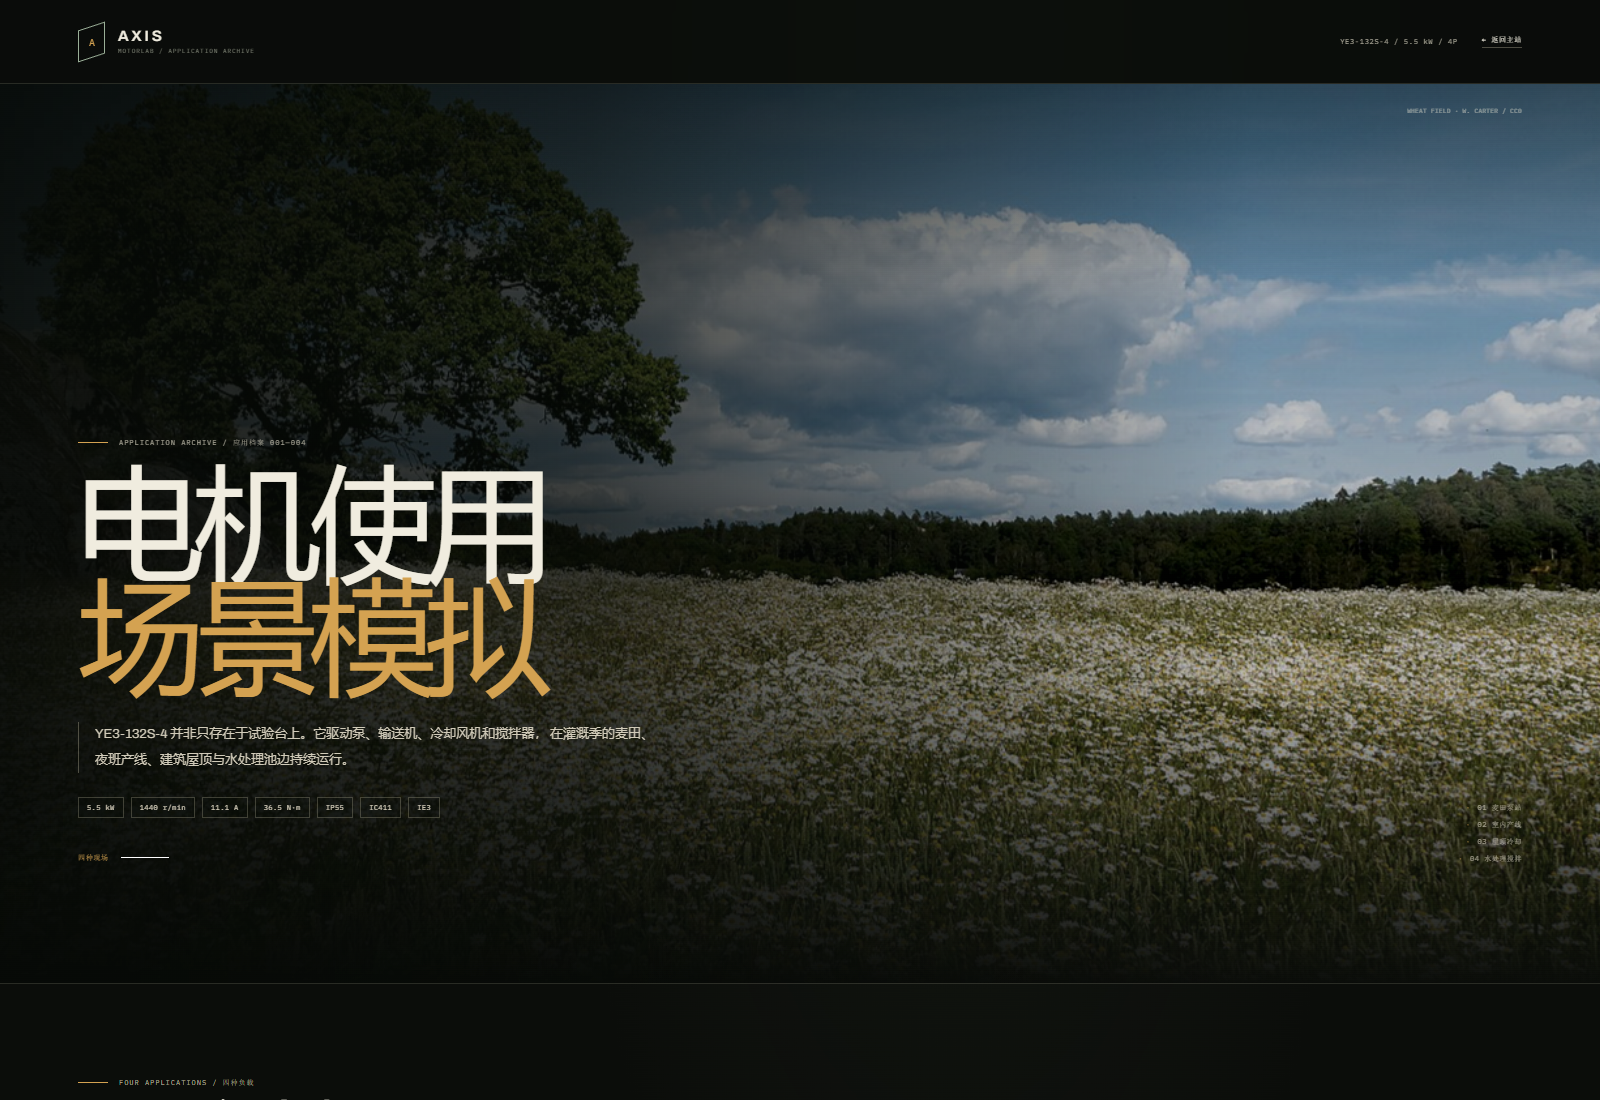
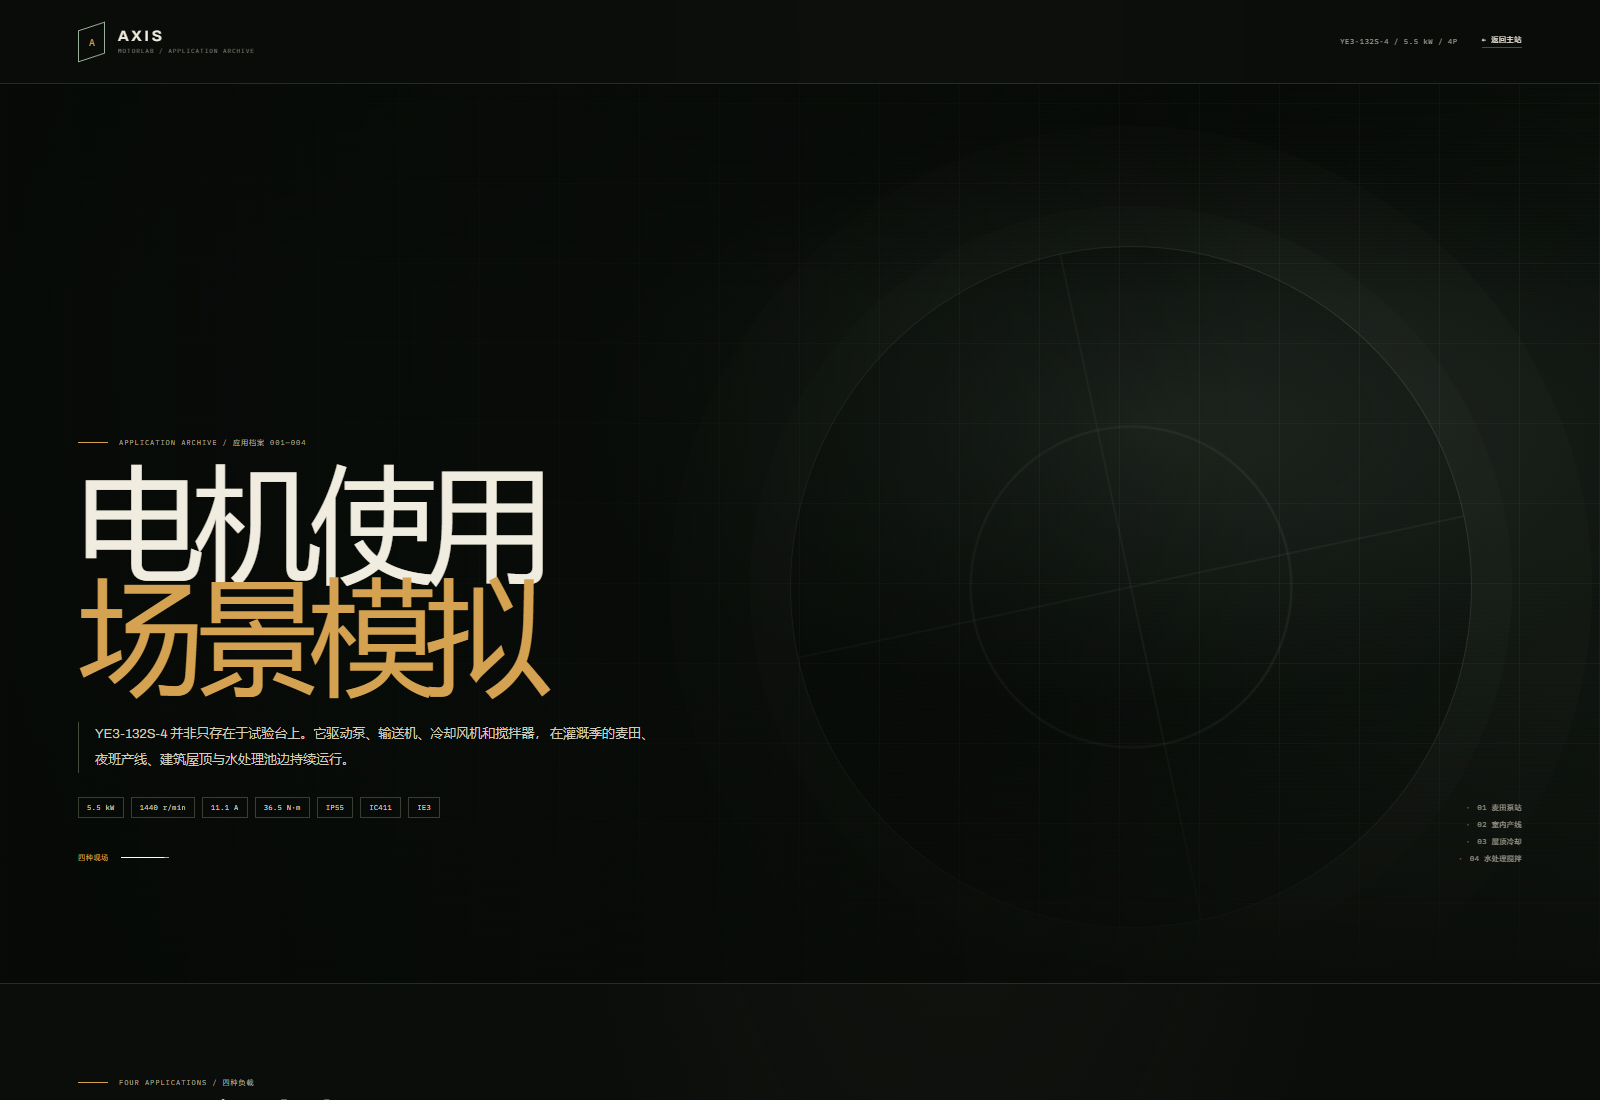
Remove reference photos and add mechanical basis to 3D applications

diff --git a/scenarios/index.html b/scenarios/index.html
@@ -22,9 +22,7 @@
 
   <main>
     <section class="hero">
-      <div class="hero-image">
-        <img src="/media/applications/wheat.jpg" alt="麦田与树木" />
-      </div>
+      <div class="hero-blueprint" aria-hidden="true"></div>
       <div class="hero-shade"></div>
       <div class="hero-inner">
         <div class="eyebrow"><span></span> APPLICATION ARCHIVE / 应用档案 001—004</div>
@@ -44,7 +42,6 @@
         <span>03 屋顶冷却</span>
         <span>04 水处理搅拌</span>
       </div>
-      <div class="hero-credit">WHEAT FIELD · W. CARTER / CC0</div>
     </section>
 
     <section class="applications" id="applications">
@@ -53,7 +50,7 @@
           <div class="eyebrow"><span></span> FOUR APPLICATIONS / 四种负载</div>
           <h2>同一台电机，<br>四种工作现场。</h2>
         </div>
-        <p>现场照片用于识别设备结构；前景设备由数字模型重建，四组场景同时运行。</p>
+        <p>参考照片只用于研究设备结构，不在网站中展示。四组场景均由数字模型、程序化材质和现场尺度重建。</p>
       </div>
 
       <div class="rated-strip">
@@ -64,10 +61,7 @@
       <div class="application-grid">
         <article class="application-card app-pump" data-app="pump">
           <div class="visual">
-            <div class="backdrop" style="background-image:url('/media/applications/pump.jpg')"></div>
             <canvas class="scene3d" data-scene="pump" aria-label="离心泵与电机数字模型"></canvas>
-            <img class="ref-thumb" src="/media/applications/pump.jpg" alt="参考照片：离心泵与电机泵组" />
-            <span class="ref-caption">REFERENCE / PUMP SET</span>
             <div class="grade"></div>
             <div class="visual-top"><span>01 / FLUID TRANSFER</span><span class="live"><i></i>RUNNING</span></div>
             <div class="hotspot" style="left:32%;top:57%"><span>MOTOR</span></div>
@@ -87,15 +81,14 @@
               <div><span>CURRENT</span><b data-live="pump-current">11.2</b><em>A</em></div>
             </div>
             <div class="tags"><span>离心泵</span><span>联轴器</span><span>灌溉管网</span></div>
+            <div class="mech-note"><span>LOAD PATH</span>电机转矩 → 联轴器 → 泵轴；泵组重量 → 公共底座 → 混凝土基础</div>
+            <div class="mech-note"><span>MOUNTING</span>IEC 132S · 轴高 132 mm · 轴伸 Ø38 mm · 联轴器护罩 · 地脚 M12</div>
           </div>
         </article>
 
         <article class="application-card app-conveyor" data-app="conveyor">
           <div class="visual">
-            <div class="backdrop" style="background-image:url('/media/applications/conveyor.jpg')"></div>
             <canvas class="scene3d" data-scene="conveyor" aria-label="输送机数字模型"></canvas>
-            <img class="ref-thumb" src="/media/applications/conveyor.jpg" alt="参考照片：工厂输送线" />
-            <span class="ref-caption">REFERENCE / CONVEYOR</span>
             <div class="grade"></div>
             <div class="visual-top"><span>02 / MATERIAL HANDLING</span><span class="live"><i></i>RUNNING</span></div>
             <div class="hotspot" style="left:24%;top:47%"><span>DRIVE</span></div>
@@ -114,15 +107,14 @@
               <div><span>CURRENT</span><b data-live="conveyor-current">11.0</b><em>A</em></div>
             </div>
             <div class="tags"><span>皮带输送</span><span>减速驱动</span><span>包装线</span></div>
+            <div class="mech-note"><span>LOAD PATH</span>电机转矩 → 减速机 → 驱动滚筒 → 输送带张力</div>
+            <div class="mech-note"><span>LAYOUT</span>带宽约 500 mm · 速度 1.2 m/s · 驱动侧护罩 · 急停拉绳 · 张紧行程</div>
           </div>
         </article>
 
         <article class="application-card app-cooling" data-app="cooling">
           <div class="visual monochrome">
-            <div class="backdrop" style="background-image:url('/media/applications/cooling.jpg')"></div>
             <canvas class="scene3d" data-scene="cooling" aria-label="冷却塔风机数字模型"></canvas>
-            <img class="ref-thumb" src="/media/applications/cooling.jpg" alt="参考照片：冷却塔风机" />
-            <span class="ref-caption">REFERENCE / FAN</span>
             <div class="grade"></div>
             <div class="visual-top"><span>03 / AIR MOVEMENT</span><span class="live"><i></i>RUNNING</span></div>
             <div class="hotspot" style="left:52%;top:55%"><span>AXIAL FAN</span></div>
@@ -141,15 +133,14 @@
               <div><span>CURRENT</span><b data-live="cooling-current">11.0</b><em>A</em></div>
             </div>
             <div class="tags"><span>轴流风机</span><span>冷却塔</span><span>排热</span></div>
+            <div class="mech-note"><span>LOAD PATH</span>电机转矩 → 直驱/皮带 → 风叶；轴向推力 → 轴承 → 塔体支架</div>
+            <div class="mech-note"><span>LAYOUT</span>风机直径约 1.2 m · 风量 20,000 m³/h · 风机护罩 · 检修开关 · 振动监测点</div>
           </div>
         </article>
 
         <article class="application-card app-water" data-app="water">
           <div class="visual">
-            <div class="backdrop" style="background-image:url('/media/applications/water.jpg')"></div>
             <canvas class="scene3d" data-scene="water" aria-label="水处理搅拌数字模型"></canvas>
-            <img class="ref-thumb" src="/media/applications/water.jpg" alt="参考照片：水处理厂沉淀池" />
-            <span class="ref-caption">REFERENCE / BASIN</span>
             <div class="grade"></div>
             <div class="visual-top"><span>04 / MIXING</span><span class="live"><i></i>RUNNING</span></div>
             <div class="hotspot" style="left:25%;top:70%"><span>MIXER / TANK</span></div>
@@ -164,10 +155,12 @@
             <p>电机经侧入式联轴器驱动搅拌叶轮。中心/侧入式驱动、桥架、刮臂、进出水管与检修栏杆共同构成处理池设备。</p>
             <div class="metrics">
               <div><span>MIXER</span><b data-live="water-rpm">148</b><em>rpm</em></div>
-              <div><span>VOLUME</span><b>12</b><em>m³</em></div>
+              <div><span>BASIN Ø</span><b>2.4</b><em>m</em></div>
               <div><span>CURRENT</span><b data-live="water-current">11.5</b><em>A</em></div>
             </div>
             <div class="tags"><span>侧入式搅拌</span><span>加药</span><span>水处理</span></div>
+            <div class="mech-note"><span>LOAD PATH</span>电机转矩 → 侧入轴 → 叶轮；径向载荷 → 轴承座 → 池壁/桥架</div>
+            <div class="mech-note"><span>LAYOUT</span>池径约 2.4 m · 叶轮转速 148 r/min · 机械密封 · 桥架/栏杆高度 1.1 m</div>
           </div>
         </article>
       </div>
@@ -183,18 +176,12 @@
         <div><b>02</b><h3>读负载特性</h3><p>泵与风机接近平方转矩，输送机与搅拌器接近恒转矩；启动方式、惯量和环境温度会改变实际负载率。</p></div>
         <div><b>03</b><h3>读环境边界</h3><p>户外潮湿、屋顶风雪、室内班次与水处理湿气，分别对应不同的防护、防腐和维护要求。</p></div>
       </div>
+      <p class="method-disclaimer">页面展示安装关系、载荷路径与运行状态，用于解释性模拟；未进行结构强度、基础振动、热平衡或选型计算。</p>
     </section>
 
     <section class="references">
-      <span>IMAGE CREDITS / 图片来源</span>
-      <div class="credit-list">
-        <a href="https://commons.wikimedia.org/wiki/File:Centrifugal_pumps.jpg" target="_blank" rel="noreferrer">泵组 · Bitjungle / CC BY-SA 4.0</a>
-        <a href="https://commons.wikimedia.org/wiki/File:Conveyor_system_in_a_factory.jpg" target="_blank" rel="noreferrer">输送线 · falco / CC0</a>
-        <a href="https://commons.wikimedia.org/wiki/File:Cooling_tower_fan.jpg" target="_blank" rel="noreferrer">冷却塔风机 · Steve Johnson / CC BY 2.0</a>
-        <a href="https://commons.wikimedia.org/wiki/File:Krishnapuram_water_treatment_plant_tank.jpg" target="_blank" rel="noreferrer">水处理池 · Saiphani02 / CC BY-SA 4.0</a>
-        <a href="https://commons.wikimedia.org/wiki/File:Tree_and_wheat_field_in_R%C3%B6e_1.jpg" target="_blank" rel="noreferrer">麦田 · W.carter / CC0</a>
-      </div>
-      <p>工程布置参考泵、输送机、冷却塔风机和水处理搅拌机的典型安装资料；页面为解释性应用模拟，不作为施工或选型依据。</p>
+      <span>ENGINEERING REFERENCES / 工程资料</span>
+      <p>参考照片仅用于研究结构，不在站内展示。模型布置参考泵、输送机、冷却塔风机和水处理搅拌机的典型安装资料；页面为解释性应用模拟，不作为施工或选型依据。</p>
       <div class="credit-list doc-list">
         <a href="https://www.changli-electric.com/low-voltage-motors/ye3-series-three-phase-asynchronous-motors.html" target="_blank" rel="noreferrer">YE3 系列应用范围</a>
         <a href="http://www.gouldspumps.com/ittgp/medialibrary/goulds/website/Literature/Instruction%20and%20Operation%20Manuals/Alphabetical/IOM-ICM-ICMP-en-us-2024-02_A4.pdf" target="_blank" rel="noreferrer">泵组安装 / 联轴器护罩</a>

diff --git a/src/scenarios/photo.css b/src/scenarios/photo.css
@@ -62,6 +62,42 @@ button { font: inherit; }
   overflow: hidden;
   border-bottom: 1px solid var(--line);
   isolation: isolate;
+  background: #0b0e0b;
+}
+.hero-blueprint {
+  position: absolute;
+  inset: 0;
+  z-index: -2;
+  background:
+    radial-gradient(ellipse at 72% 38%, rgba(117, 144, 125, .2), transparent 36%),
+    linear-gradient(112deg, #141a15, #090c09 62%, #111812);
+}
+.hero-blueprint::before {
+  content: "";
+  position: absolute;
+  inset: 0;
+  background:
+    repeating-linear-gradient(90deg, transparent 0 79px, rgba(194, 206, 177, .055) 79px 80px),
+    repeating-linear-gradient(0deg, transparent 0 79px, rgba(194, 206, 177, .045) 79px 80px);
+  mask-image: linear-gradient(90deg, transparent, #000 25%, #000 100%);
+}
+.hero-blueprint::after {
+  content: "";
+  position: absolute;
+  right: 8%;
+  top: 18%;
+  width: min(48vw, 680px);
+  aspect-ratio: 1;
+  border: 1px solid rgba(190, 204, 177, .16);
+  border-radius: 50%;
+  box-shadow:
+    0 0 0 40px rgba(190, 204, 177, .025),
+    0 0 0 120px rgba(190, 204, 177, .018);
+  background:
+    radial-gradient(circle at 50% 50%, transparent 0 33%, rgba(190, 204, 177, .08) 33.2% 33.5%, transparent 33.7%),
+    linear-gradient(90deg, transparent 49.8%, rgba(190, 204, 177, .1) 50%, transparent 50.2%),
+    linear-gradient(0deg, transparent 49.8%, rgba(190, 204, 177, .1) 50%, transparent 50.2%);
+  transform: rotate(-12deg);
 }
 .hero-image { position: absolute; inset: 0; z-index: -2; }
 .hero-image img {
@@ -307,6 +343,15 @@ h1 em { color: var(--accent); font-style: normal; }
 .metrics em { margin-left: 3px; color: var(--dim); font-family: var(--mono); font-size: 6px; font-style: normal; }
 .tags { display: flex; flex-wrap: wrap; gap: 5px; margin-top: 13px; }
 .tags span { padding: 3px 6px; border: 1px solid var(--line); color: var(--dim); font-size: 7px; }
+.mech-note {
+  margin-top: 10px;
+  color: var(--faint);
+  font-family: var(--mono);
+  font-size: 6px;
+  line-height: 1.65;
+  letter-spacing: .035em;
+}
+.mech-note span { display: inline-block; min-width: 57px; color: var(--accent); margin-right: 5px; }
 .application-card:hover .visual img { filter: saturate(.95) contrast(1.05) brightness(.9); }
 
 .method { padding: 30px var(--gut) 52px; border-top: 1px solid var(--line); }
@@ -318,6 +363,7 @@ h1 em { color: var(--accent); font-style: normal; }
 .method-grid b { color: var(--accent); font-family: var(--mono); font-size: 7px; font-weight: 400; }
 .method-grid h3 { margin-top: 16px; font-size: 15px; font-weight: 500; }
 .method-grid p { margin-top: 8px; color: var(--muted); font-size: 9px; line-height: 1.8; }
+.method-disclaimer { margin-top: 15px; color: var(--faint); font-family: var(--mono); font-size: 6px; line-height: 1.7; letter-spacing: .03em; }
 
 .references { display: grid; grid-template-columns: 190px 1fr; gap: 28px; padding: 22px var(--gut) 26px; border-top: 1px solid var(--line); }
 .references > span { color: var(--faint); font-family: var(--mono); font-size: 6px; letter-spacing: .09em; }
